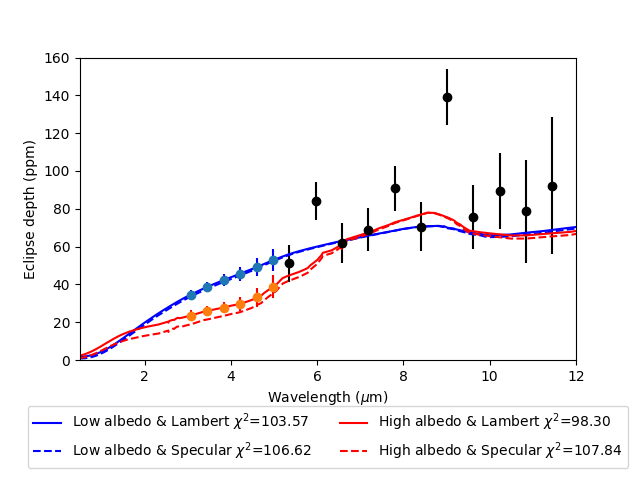
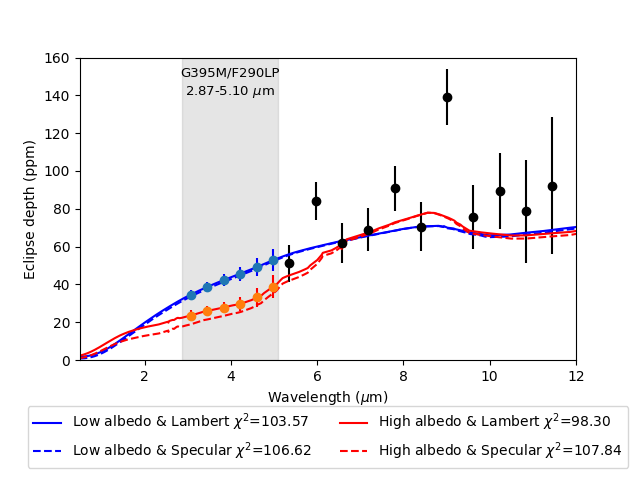
change

Changed region(s): [[0.2812, 0.125, 0.4375, 0.75]]

diff --git a/lib/plot_lib.py b/lib/plot_lib.py
@@ -219,12 +219,15 @@ def compare_phase_curve_plot(name_list, wave_range):
     plt.xlabel('Orbital Phase')
     plt.ylabel('Contrast ratio (ppm)')
     # 添加文字和箭头，设置字体透明度  
-    plt.text(0.3948, -5, '1 hour', fontsize=12, color='black', ha='center') 
+    plt.text(0.3948, -4, '1 hour', fontsize=10, color='black', ha='center') 
     # plt.text(0.3948, -5, '', fontsize=12, color='black', ha='center')
-    plt.text(0.5, -5, '0.63 hour', fontsize=12, color='black', ha='center')
+    plt.text(0.5, -6.5, '0.63 h', fontsize=9, color='black', ha='center')
     # plt.text(0.3948, -3, '1 hour', fontsize=12, color='black', ha='center')
-    plt.text(0.6052, -5, '1 hour', fontsize=12, color='black', ha='center')
+    plt.text(0.6052, -4, '1 hour', fontsize=10, color='black', ha='center')
     # plt.text(0.3948, -3, '1 hour', fontsize=12, color='black', ha='center')
+    
+    plt.text(0.9,38, 'G395M/F290LP', fontsize = 10, ha='center', fontweight='bold')
+    plt.text(0.9,35, '2.87-5.10 $\mu$m', fontsize = 10, ha='center', fontweight='bold')
     
     plt.show()
     plt.savefig(f"temp/{name}/phase_curve_comp")
@@ -305,6 +308,9 @@ def real_comp(name_list):
     
     print(chi2)
     print(Bin)
+    ax.axvspan(2.87, 5.10, color='gray', alpha=0.2)
+    plt.text(3.985, 150, 'G395M/F290LP', fontsize = 9.5, ha='center')
+    plt.text(3.985, 140, '2.87-5.10 $\mu$m', fontsize = 9.5, ha='center')
 
     # 添加标题和标签  
     # plt.title('')  
@@ -329,9 +335,9 @@ if __name__ =='__main__':
     # spectrum_plot(name, wave_range)
     
     # compare_spectrum_plot(['R3', 'R4', 'R5'])
-    # real_comp(['GJ-367 b low', 'GJ-367 b high'])
+    real_comp(['GJ-367 b low', 'GJ-367 b high'])
     
-    compare_phase_curve_plot(['GJ-367 b PC low', 'GJ-367 b PC high'], np.array([2.87, 5.10])* 1e-6)
+    # compare_phase_curve_plot(['GJ-367 b PC low', 'GJ-367 b PC high'], np.array([2.87, 5.10])* 1e-6)
     
     
     

diff --git a/lib/parameter_list.py b/lib/parameter_list.py
@@ -9,7 +9,7 @@ Sigma_const = 5.67e-8  # W/m^2/K^4, Stefan-Boltzmann constant
 class Accuracy_parameters:
     ### Accuracy control parameters
     def __init__(self):
-        self.SIZE = [181, 361]  # Size of the meshgrid
+        self.SIZE = [91, 181]  # Size of the meshgrid
         # Create meshgrid for the planet
         self.phiP_list = np.linspace(-np.pi / 2, np.pi / 2, self.SIZE[0])
         self.thetaP_list = np.linspace(0, 2 * np.pi, self.SIZE[1])
